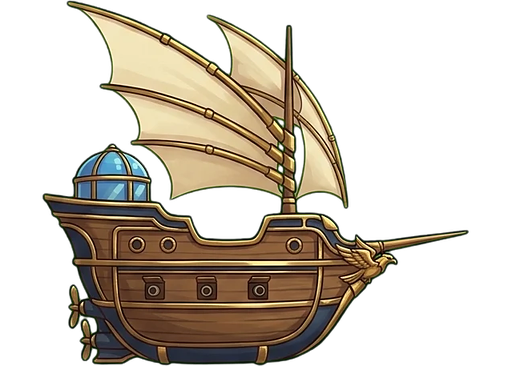
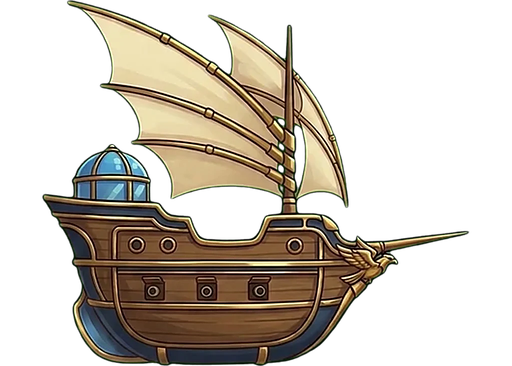
Маленький корабль главной крупнее (230 px) и летит носом вправо; нарисованные винты убраны (Gemini), на корме вращаются латунные винты — сплющены под вид сбоку; решение №67

Changed region(s): [[0.0938, 0.0, 0.9062, 1.0]]

diff --git a/tools/sprites/ships.py b/tools/sprites/ships.py
@@ -13,11 +13,12 @@ art/2d/ship/scaffold.png — леса стройки на белом (общие
 Нужны Pillow и numpy.
 """
 import json
+import math
 import sys
 from pathlib import Path
 
 import numpy as np
-from PIL import Image, ImageFilter
+from PIL import Image, ImageDraw, ImageFilter
 
 ROOT = Path(__file__).resolve().parents[2]
 sys.path.insert(0, str(Path(__file__).resolve().parent))
@@ -62,6 +63,8 @@ def cut(ship):
 
 
 FAR_WIDTH = 512   # на главной корабль ~180 px — запас на плотные экраны
+# far.png уже носом вправо (корабль на главной летит вправо) и без винтов: их место занимают
+# вращающиеся винты из data/ship.json (ships[].far_propellers, в px готового far.png).
 
 
 def far(ship):
@@ -86,6 +89,28 @@ def far(ship):
     print(f"{ship}/far.png {rgb.size}")
 
 
+def propeller(size=128):
+    """Латунный трёхлопастной винт анфас; в игре он сплющен по ширине — вид сбоку — и крутится."""
+    k = 4
+    n = size * k
+    c = n / 2
+    img = Image.new("RGBA", (n, n), (0, 0, 0, 0))
+    d = ImageDraw.Draw(img)
+    for i in range(3):
+        a = i * 2 * math.pi / 3
+        blade = []
+        for t, w in ((0.1, 0.1), (0.45, 0.34), (0.8, 0.3), (0.97, 0.12)):
+            r = t * (n / 2 - k)
+            blade.append((c + r * math.cos(a) - w * r * math.sin(a), c + r * math.sin(a) + w * r * math.cos(a)))
+        for t, w in ((0.97, -0.08), (0.8, -0.16), (0.45, -0.18), (0.1, -0.08)):
+            r = t * (n / 2 - k)
+            blade.append((c + r * math.cos(a) - w * r * math.sin(a), c + r * math.sin(a) + w * r * math.cos(a)))
+        d.polygon(blade, fill=(226, 182, 92, 255), outline=(110, 76, 38, 255), width=2 * k)
+    d.ellipse([c - 0.16 * c, c - 0.16 * c, c + 0.16 * c, c + 0.16 * c], fill=(150, 110, 52, 255),
+              outline=(80, 56, 30, 255), width=3 * k)
+    return img.filter(ImageFilter.GaussianBlur(k * 0.3)).resize((size, size), Image.Resampling.LANCZOS)
+
+
 def scaffold():
     src = Image.open(ROOT / "art" / "2d" / "ship" / "scaffold.png").convert("RGB")
     rgba = src.convert("RGBA")
@@ -96,6 +121,7 @@ def scaffold():
 def main():
     if not sys.argv[1:]:
         scaffold()
+        propeller().save(OUT.parent / "fx" / "propeller.png", optimize=True)
     ships = sys.argv[1:] or sorted(p.name for p in ART.iterdir() if (p / "cutaway.png").exists())
     for ship in ships:
         cut(ship)

diff --git a/crates/game/src/menu.rs b/crates/game/src/menu.rs
@@ -43,6 +43,10 @@ const BOB_TILT_DEG: f32 = 1.2;
 /// Ширина экрана в логических px.
 const SCREEN_W: f32 = 540.0;
 const PRESSED_SCALE: f32 = 0.94;
+/// Ширина рисунка маленького корабля главной (`far.png`), винты сплющены до вида сбоку.
+const FAR_ART: f32 = 512.0;
+const FAR_PROP_SQUASH: f32 = 0.55;
+const FAR_PROP_TURNS: f32 = 1.6;
 
 /// Данные меню: `data/menu.json`.
 #[derive(Resource, Deserialize, Clone)]
@@ -513,6 +517,35 @@ fn ship_view(
             ImageNode::new(assets.load(view.far())),
         ))
         .observe(open_ship);
+        // Винты на корме — поверх корпуса: сплющены по ширине (вид сбоку) и крутятся.
+        let k = (x1 - x0) / FAR_ART;
+        for prop in &view.far_propellers {
+            let (cx, cy, side) = (x0 + prop.at[0] * k, y0 + prop.at[1] * k, prop.size * k);
+            deck.spawn((
+                Node {
+                    position_type: PositionType::Absolute,
+                    left: pct(cx - side / 2.0),
+                    top: pct(cy - side / 2.0),
+                    width: pct(side),
+                    height: pct(side),
+                    ..default()
+                },
+                UiTransform::from_scale(Vec2::new(FAR_PROP_SQUASH, 1.0)),
+                Pickable::IGNORE,
+            ))
+            .with_child((
+                FarShip,
+                Spinner(FAR_PROP_TURNS),
+                Node {
+                    width: percent(100),
+                    height: percent(100),
+                    ..default()
+                },
+                ImageNode::new(assets.load("fx/propeller.png")),
+                UiTransform::default(),
+                Pickable::IGNORE,
+            ));
+        }
         deck.spawn((
             ShipBody,
             Node {

diff --git a/crates/game/src/ship.rs b/crates/game/src/ship.rs
@@ -80,6 +80,9 @@ pub struct ShipDef {
     /// Пропеллер на корме: крутится всегда.
     #[serde(default)]
     pub propeller: Option<Propeller>,
+    /// Винты маленького корабля главной (в px рисунка `far.png`, он 512 в ширину).
+    #[serde(default)]
+    pub far_propellers: Vec<FarPropeller>,
     /// Комнаты: отсеки и просто жилые (без отсека — для красоты, не нажимаются).
     pub rooms: Vec<Room>,
 }
@@ -239,6 +242,13 @@ pub struct Birds {
     pub speed: f32,
     pub every: f32,
     pub top: f32,
+}
+
+/// Винт за кормой маленького корабля: на рисунке анфас, в игре сплющен (вид сбоку) и крутится.
+#[derive(Deserialize)]
+pub struct FarPropeller {
+    pub at: [f32; 2],
+    pub size: f32,
 }
 
 #[derive(Deserialize)]

diff --git a/.studioigor/DECISIONS.md b/.studioigor/DECISIONS.md
@@ -72,3 +72,4 @@ decision is not deleted: a new line says "replaces #N".
 | 64 | 2026-11-24 | 6 | Линейка из 4 кораблей с разными силуэтами и своей раскладкой комнат у каждого: «Ласточка» (старт, аэростат, 10 комнат) → средний (глава 3, двухкорпусный с крыльями-парусами, 13) → большой (глава 6, галеон с тремя аэростатами, 16) + особый (золотой/имперский, за дублоны или пропуск); осмотр — весь разрез по ширине экрана | — | user | пользователь: переделать корабли и режим осмотра, сделать несколько видов кораблей |
 | 65 | 2026-11-24 | 6 | Главная — маленький корабль и только «В поход»; улучшения отсеков (ряд плиток с Верфью) — только в режиме осмотра, корабль там крупный во всю ширину | — | user | корабль на главной слишком большой, меню улучшений мешало главной |
 | 66 | 2026-11-24 | 6 | На главной корабль ~1/3 ширины экрана (180 px) и отдельный простой рисунок «издалека» — компактный силуэт без мелких деталей; разрез для осмотра прежний, крупный | — | user | корабль на главной всё ещё большой |
+| 67 | 2026-11-24 | 6 | Маленький корабль главной: 230 px, носом вправо (летит вправо), винты на корме — отдельные вращающиеся спрайты; осмотр — по ширине экрана | — | user | 180 px — мало; винт был спереди и не крутился |
